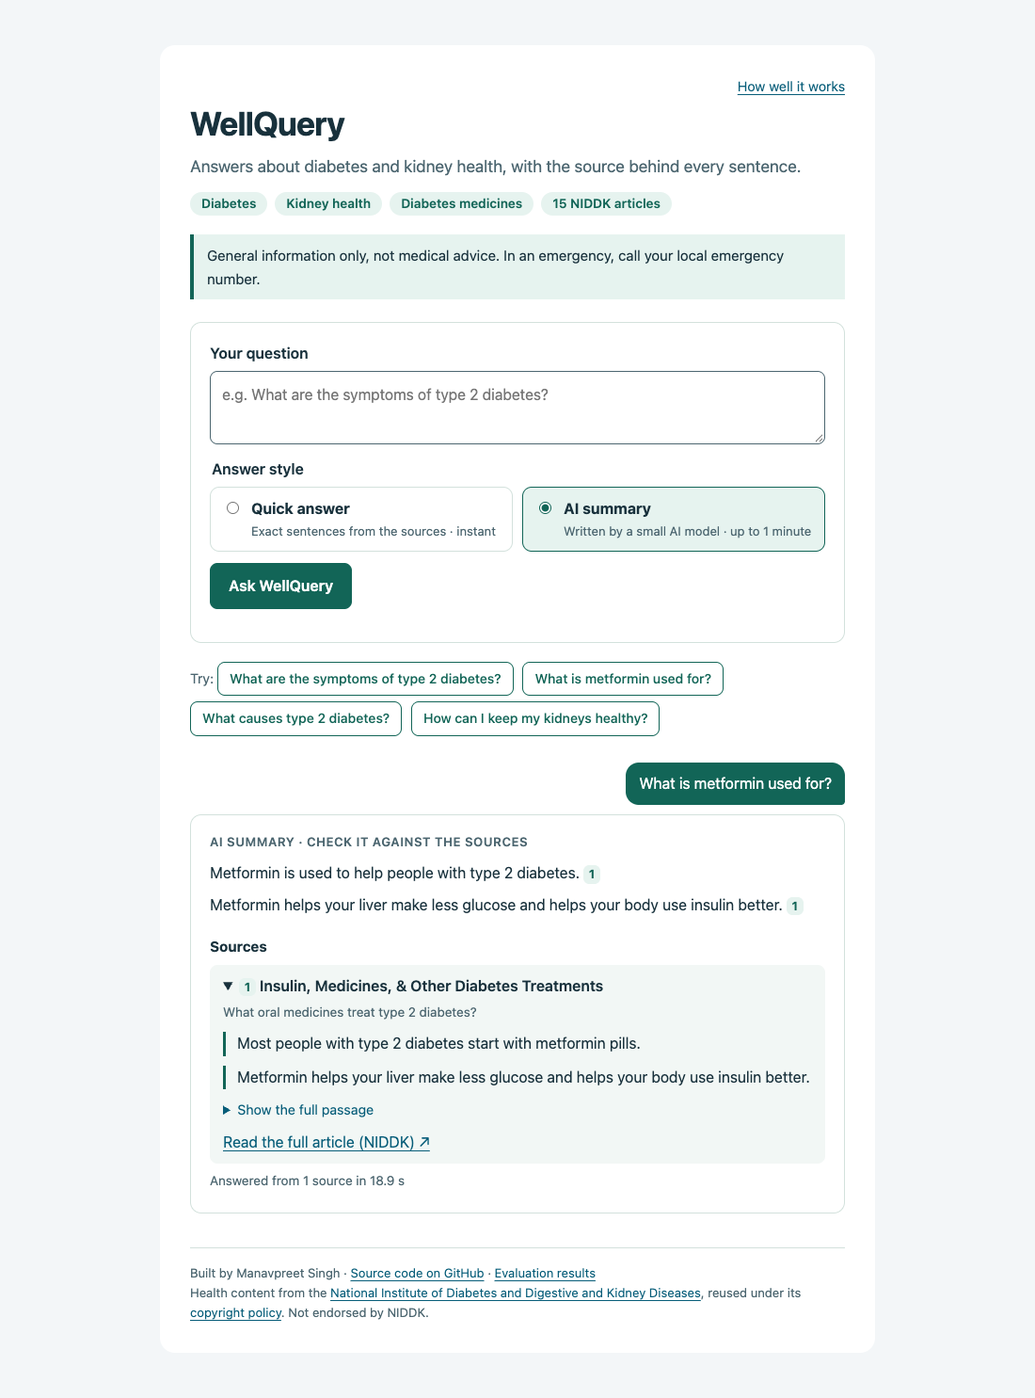
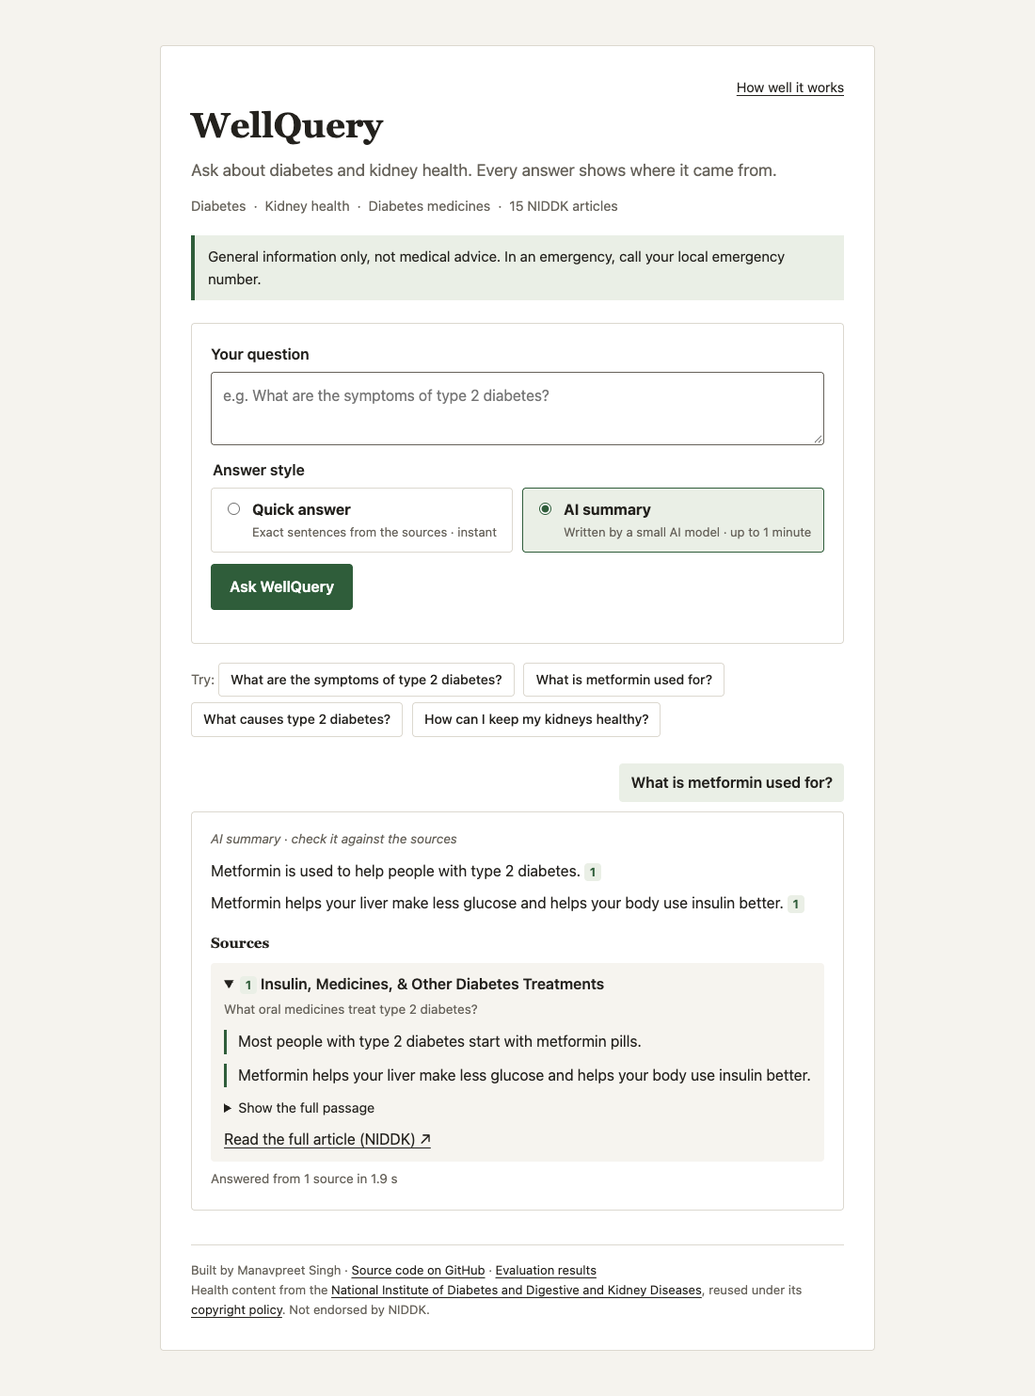
style: simpler, warmer look and plain wording
Move to a deeper green on an off-white page with dark underlined links
(no blue), square corners, serif headings, and plain text instead of
coloured tags. Rewrite the README and Space page in short plain
sentences, and refresh the screenshots.

diff --git a/static/style.css b/static/style.css
@@ -1,64 +1,67 @@
 :root {
-  --bg: #f3f6f8; --card: #ffffff; --text: #18313c; --muted: #4c6670; --line: #d3e1dc;
-  --accent: #126557; --on-accent: #ffffff; --accent-soft: #e6f3ef; --link: #075d79; --quote: #f2f7f5;
-  --urgent: #9b1c1c; --urgent-soft: #fdecec; --caution: #8a5300; --caution-soft: #fdf3e2;
+  --bg: #f5f3ee; --card: #ffffff; --text: #23211d; --muted: #66625a; --line: #dcd8cf;
+  --accent: #2f5d3a; --on-accent: #ffffff; --accent-soft: #eaefe6; --link: #23211d; --quote: #f6f4ef;
+  --urgent: #9b2b1f; --urgent-soft: #f8e4df; --caution: #7d5310; --caution-soft: #f6ecd8;
+  --heading: Georgia, 'Times New Roman', serif;
 }
 @media (prefers-color-scheme: dark) {
   :root {
-    --bg: #0f1a1e; --card: #16252b; --text: #e3edf0; --muted: #a3b8bf; --line: #2c4149;
-    --accent: #3fb59f; --on-accent: #0f1a1e; --accent-soft: #173a35; --link: #7cc8e6; --quote: #1c3036;
-    --urgent: #ff9b9b; --urgent-soft: #3a1d1f; --caution: #f2c071; --caution-soft: #3a2e17;
+    --bg: #1a1916; --card: #22211d; --text: #ece8df; --muted: #a8a294; --line: #3a3832;
+    --accent: #8fbf8a; --on-accent: #1a1916; --accent-soft: #2b3528; --link: #ece8df; --quote: #2a2925;
+    --urgent: #f0a08f; --urgent-soft: #45251f; --caution: #e6c07a; --caution-soft: #3d3220;
   }
 }
 * { box-sizing: border-box; }
 body { margin: 0; padding: 24px 16px; background: var(--bg); color: var(--text); font: 16px/1.6 system-ui, sans-serif; }
-main { max-width: 760px; margin: 24px auto; padding: 32px; border-radius: 16px; background: var(--card); }
+main { max-width: 760px; margin: 24px auto; padding: 32px; border: 1px solid var(--line); border-radius: 4px; background: var(--card); }
+h1, h2, h3 { font-family: var(--heading); font-weight: 600; }
 a { color: var(--link); text-underline-offset: 3px; }
-:focus-visible { outline: 3px solid #b35b00; outline-offset: 3px; }
-button { margin-top: 12px; border: 0; border-radius: 8px; padding: 12px 20px; background: var(--accent); color: var(--on-accent); font: inherit; font-weight: 600; cursor: pointer; }
+:focus-visible { outline: 2px solid var(--accent); outline-offset: 3px; }
+button { margin-top: 12px; border: 0; border-radius: 4px; padding: 12px 20px; background: var(--accent); color: var(--on-accent); font: inherit; font-weight: 600; cursor: pointer; }
 button:disabled { opacity: 0.6; cursor: wait; }
 label { display: block; font-weight: 600; }
-textarea { display: block; width: 100%; margin-top: 6px; padding: 12px; font: inherit; color: var(--text); background: var(--card); border: 1px solid var(--muted); border-radius: 8px; resize: vertical; }
+textarea { display: block; width: 100%; margin-top: 6px; padding: 12px; font: inherit; color: var(--text); background: var(--card); border: 1px solid var(--muted); border-radius: 4px; resize: vertical; }
 select { width: 100%; padding: 10px; margin: 8px 0; font: inherit; }
 
 /* Chat page */
 .hero nav { text-align: right; font-size: .9rem; }
-.hero h1 { margin: 0; font-size: 2.2rem; letter-spacing: -0.02em; }
+.hero h1 { margin: 0; font-size: 2.3rem; }
 .tagline { margin: 4px 0 12px; font-size: 1.1rem; color: var(--muted); }
-.coverage { display: flex; flex-wrap: wrap; gap: 8px; margin: 0 0 20px; padding: 0; list-style: none; }
-.coverage li { padding: 2px 12px; border-radius: 999px; background: var(--accent-soft); color: var(--accent); font-size: .85rem; font-weight: 600; }
+.coverage { display: flex; flex-wrap: wrap; gap: 0; margin: 0 0 20px; padding: 0; list-style: none; color: var(--muted); font-size: .9rem; }
+.coverage li + li::before { content: '·'; padding: 0 8px; }
 .notice { margin: 0 0 24px; border-left: 4px solid var(--accent); padding: 10px 14px; background: var(--accent-soft); font-size: .95rem; }
 #mode, #status { font-size: .9rem; }
-.ask { padding: 20px; border: 1px solid var(--line); border-radius: 12px; }
+.ask { padding: 20px; border: 1px solid var(--line); border-radius: 4px; }
 .styles { display: grid; grid-template-columns: 1fr 1fr; gap: 10px; margin: 14px 0 0; padding: 0; border: 0; }
 .styles legend { margin-bottom: 6px; font-weight: 600; }
-.style-option { display: flex; gap: 10px; align-items: flex-start; padding: 10px 12px; border: 1px solid var(--line); border-radius: 10px; font-weight: 400; cursor: pointer; }
+.style-option { display: flex; gap: 10px; align-items: flex-start; padding: 10px 12px; border: 1px solid var(--line); border-radius: 4px; font-weight: 400; cursor: pointer; }
 .style-option:has(input:checked) { border-color: var(--accent); background: var(--accent-soft); }
 .style-option input { margin-top: 5px; accent-color: var(--accent); }
 .style-option small { display: block; color: var(--muted); font-size: .82rem; }
 #examples { margin: 14px 0 0; color: var(--muted); font-size: .9rem; }
 #examples .example { margin: 6px 6px 0 0; padding: 6px 12px; border: 1px solid var(--accent); background: transparent; color: var(--accent); font-size: .88rem; font-weight: 500; }
 #examples .example:hover { background: var(--accent-soft); }
+#examples .example { color: var(--text); border-color: var(--line); }
 .turn { margin: 28px 0; }
-.question { margin: 0 0 10px auto; width: fit-content; max-width: 85%; padding: 10px 14px; border-radius: 14px 14px 4px 14px; background: var(--accent); color: var(--on-accent); overflow-wrap: anywhere; }
-.answer { padding: 18px 20px; border: 1px solid var(--line); border-radius: 12px; overflow-wrap: anywhere; }
+.question { margin: 0 0 10px auto; width: fit-content; max-width: 85%; padding: 8px 12px; border-radius: 4px; background: var(--accent-soft); color: var(--text); font-weight: 600; overflow-wrap: anywhere; }
+.answer { padding: 18px 20px; border: 1px solid var(--line); border-radius: 4px; overflow-wrap: anywhere; }
 .answer.loading { color: var(--muted); }
 .answer.loading p::before { content: ""; display: inline-block; width: .8em; height: .8em; margin-right: 10px; border: 2px solid var(--accent); border-right-color: transparent; border-radius: 50%; animation: spin 0.8s linear infinite; }
 @keyframes spin { to { transform: rotate(360deg); } }
 @media (prefers-reduced-motion: reduce) { .answer.loading p::before { animation: none; } }
-.answer-label { margin: 0 0 10px; color: var(--muted); font-size: .82rem; font-weight: 600; text-transform: uppercase; letter-spacing: .04em; }
+.answer-label { margin: 0 0 10px; color: var(--muted); font-size: .85rem; font-style: italic; }
 .claim p { margin: 0 0 8px; }
 .claim ul { margin: 0 0 12px; padding-left: 22px; }
 .claim li { margin: 2px 0; }
-.cite { display: inline-block; min-width: 1.4em; padding: 0 5px; border-radius: 6px; background: var(--accent-soft); color: var(--accent); font-size: .8rem; font-weight: 700; text-align: center; text-decoration: none; line-height: 1.5; }
+.cite { display: inline-block; min-width: 1.4em; padding: 0 5px; border-radius: 4px; background: var(--accent-soft); color: var(--accent); font-size: .8rem; font-weight: 700; text-align: center; text-decoration: none; line-height: 1.5; }
 .answer h3 { margin: 18px 0 8px; font-size: .95rem; }
-details.source { margin: 8px 0; padding: 10px 14px; background: var(--quote); border-radius: 8px; }
+details.source { margin: 8px 0; padding: 10px 14px; background: var(--quote); border-radius: 4px; }
 details.source > summary { cursor: pointer; font-weight: 600; }
 blockquote { margin: 10px 0; padding-left: 12px; border-left: 3px solid var(--accent); }
 details.passage { margin: 6px 0 10px; font-size: .9rem; }
 details.passage summary { cursor: pointer; color: var(--link); }
 .source-meta { margin: 4px 0; color: var(--muted); font-size: .85rem; }
-.refusal { padding: 12px 14px; border-radius: 8px; background: var(--accent-soft); }
+.refusal { padding: 12px 14px; border-radius: 4px; background: var(--accent-soft); }
 .refusal p { margin: 4px 0 0; }
 .refusal.urgent { background: var(--urgent-soft); color: var(--urgent); }
 .refusal.caution { background: var(--caution-soft); color: var(--caution); }

diff --git a/templates/evaluation.html b/templates/evaluation.html
@@ -5,7 +5,7 @@
 <p class="notice">Question verification and exact quotations do not establish answer correctness or clinical safety.</p>
 {% if skipped %}<p role="status">{{ skipped }} invalid summary file(s) were skipped.</p>{% endif %}
 {% if not runs %}<h2>No evaluation runs yet</h2><p>Run <code>python -m evaluation.run --include-drafts</code> from your configured project environment. Draft results will be labeled as unverified.</p>
-{% else %}<form method="get"><label for="run">Evaluation run</label><select id="run" name="run">{% for item in runs %}<option value="{{ item.id }}" {% if item.id == selected.id %}selected{% endif %}>{{ item.id }} — {{ 'Draft' if item.draft else 'Reviewed questions' }}</option>{% endfor %}</select><button type="submit">View run</button></form>
+{% else %}<form method="get"><label for="run">Evaluation run</label><select id="run" name="run">{% for item in runs %}<option value="{{ item.id }}" {% if item.id == selected.id %}selected{% endif %}>{{ item.id }} ({{ 'draft' if item.draft else 'reviewed questions' }})</option>{% endfor %}</select><button type="submit">View run</button></form>
 <h2>{{ 'Draft development results' if selected.draft else 'Human-verified question set' }}</h2>
 <p><strong>{{ selected.verified_count }} / {{ selected.question_count }}</strong> questions verified. Answer support still requires separate human review.</p>
 <p class="source-meta">Run timestamp (UTC): {{ selected.created_at }}</p>

diff --git a/templates/index.html b/templates/index.html
@@ -7,11 +7,11 @@
 <header class="hero">
   <nav><a href="/evaluation">How well it works</a></nav>
   <h1>WellQuery</h1>
-  <p class="tagline">Answers about diabetes and kidney health, with the source behind every sentence.</p>
+  <p class="tagline">Ask about diabetes and kidney health. Every answer shows where it came from.</p>
   <ul class="coverage" aria-label="What WellQuery covers"><li>Diabetes</li><li>Kidney health</li><li>Diabetes medicines</li><li>15 NIDDK articles</li></ul>
 </header>
 <p class="notice">General information only, not medical advice. In an emergency, call your local emergency number.</p>
-{% if mode != 'local' %}<p id="mode">Mode: {{ mode }}.{% if mode == 'demo' %} Scripted demo — try “What is WellQuery?”. No health information or AI generation is active.{% else %} Requires configured Databricks endpoints and a local model.{% endif %}</p>{% endif %}
+{% if mode != 'local' %}<p id="mode">Mode: {{ mode }}.{% if mode == 'demo' %} Scripted demo. Try “What is WellQuery?”. No health information or AI generation is active.{% else %} Requires configured Databricks endpoints and a local model.{% endif %}</p>{% endif %}
 <form id="question-form" class="ask">
   <label for="question">Your question</label>
   <textarea id="question" maxlength="1000" required rows="2" placeholder="e.g. What are the symptoms of type 2 diabetes?"></textarea>

diff --git a/README.md b/README.md
@@ -1,101 +1,64 @@
 # WellQuery
 
-A third-year university project that explores general health information through document search, cited source excerpts, and inspectable evidence. Built by Manavpreet Singh on his earlier MediBot project.
+WellQuery answers general questions about diabetes, kidney health and diabetes medicines. It only uses 15 articles from the U.S. National Institute of Diabetes and Digestive and Kidney Diseases (NIDDK), and every answer shows the exact passage it came from, with a link to the original article.
 
-**Current status:** the local application works with source excerpts and live-tested Ollama synthesis. The corpus contains 15 diabetes/kidney-health articles and 199 chunks. All 92 evaluation questions remain unverified drafts. The original/challenge/supplementary sets match their expected answer/refusal categories, but this does not establish answer correctness. See the [final report](docs/REPORT.md), [results](docs/results/), and [completion scope](docs/STATUS.md).
+It is a university project and is not medical advice.
 
-<p align="center"><img src="docs/images/quick-answer.png" alt="WellQuery answering 'What are the symptoms of type 2 diabetes?' with a bulleted list and its NIDDK sources" width="640"></p>
-
-| Emergency questions are refused | Works on phones |
-|---|---|
-| <img src="docs/images/emergency.png" alt="An emergency question gets a red 'This may be an emergency' notice" width="400"> | <img src="docs/images/phone.png" alt="WellQuery on a phone-sized screen" width="200"> |
-
-## Run with Docker
-
-The [Dockerfile](Dockerfile) packages the app, search model, corpus, and Qwen2.5 1.5B via Ollama for CPU-only hosts:
-
-```sh
-make docker && make docker-run   # http://127.0.0.1:7860
-```
-
-`make deploy SPACE=<hf-username>/wellquery` publishes it as a free [Hugging Face Docker Space](https://huggingface.co/docs/hub/spaces-sdks-docker) after `hf auth login`. AI answers take up to a minute on free CPU hardware; source excerpts are near-instant.
-
-## Run the local demo
-
-Requires Python 3.12, [uv](https://docs.astral.sh/uv/), and `make`. Run from the repository root:
-
-```sh
-make setup       # install pinned demo + test dependencies into .venv
-make ingest      # download catalogued articles, observing robots.txt
-make index       # explicitly download the pinned MiniLM model and embed documents
-make smoke       # check the store, index, local model, and cited-excerpt flow
-make evaluate    # generate clearly labeled DRAFT evaluation results
-make local       # start the local excerpt backend on 127.0.0.1:8000
-```
-
-Open [the chat](http://127.0.0.1:8000), [evaluation dashboard](http://127.0.0.1:8000/evaluation), or [API documentation](http://127.0.0.1:8000/docs). Try “What are the symptoms of type 2 diabetes?” and click a citation to inspect the source. `make local` selects the local backend without changing your `.env`.
-
-Initial setup needs internet access for dependencies, articles, and model weights. The default local excerpt path uses no paid API and sends no questions to a hosted inference service. Generated databases, model files, reviews, and run results stay out of Git. Fresh checkouts must generate their own results. The pinned dependency snapshot was tested on macOS Apple Silicon with Python 3.12; other platforms remain unverified. It is a version snapshot, not a security audit or a hash-locked distribution.
+<p align="center"><img src="docs/images/quick-answer.png" alt="WellQuery answering 'What are the symptoms of type 2 diabetes?' with a list of symptoms and its NIDDK sources" width="640"></p>
 
 ## What it does
 
-- Extracts curated HTML/text sources into section-aware chunks with publisher, URL, permission details, and content hashes.
-- Compares BM25 keyword search, MiniLM vector search, hybrid reciprocal rank fusion, and optional rule-based category routing.
-- Returns verbatim source excerpts by default, with numbered citations and expandable support passages.
-- Offers optional local Ollama synthesis with citation-ID and exact-support-quote checks.
-- Applies prototype phrase rules for emergency, personal-advice, and injection requests before local retrieval.
-- Compares retrieval configurations and exports answers for separate human review.
-- Displays evaluation runs with explicit draft/verified-question counts and limitations.
+- Finds the parts of the articles that match your question, using keyword search and meaning-based search together.
+- **Quick answer** (default): shows the most relevant sentences exactly as written in the articles, with numbered links to each source.
+- **AI summary** (optional): a small language model (Qwen2.5 1.5B, run locally through Ollama) writes a short answer. Each sentence must point to a real sentence from the sources, or the answer is hidden.
+- Refuses emergencies (it tells you to call emergency services) and personal medical questions such as "how much insulin should I take".
+- Says so when the articles don't cover a question, instead of guessing.
+- Has a page showing how well the search did on 92 test questions.
 
-![Draft evaluation dashboard](docs/images/evaluation.png)
+## Running it
 
-## Commands
+**With Docker:**
 
-| Command | Purpose |
-|---|---|
-| `make check` | Offline tests and whitespace validation |
-| `make doctor` | Check dependency and data/index prerequisites without loading the model |
-| `make smoke` | Exercise local excerpts and citations with the real cached embedding model |
-| `make local` | Run the local evidence-backed demo |
-| `make run` | Run the backend selected by `BACKEND_MODE` (defaults to scripted `demo`) |
-| `make evaluate` | Run the unverified development set; results are not headline accuracy |
-| `.venv/bin/python -m evaluation.run` | Run only human-verified questions; fails if none exist |
+```sh
+make docker && make docker-run
+```
 
-After changing source documents, rerun ingestion and index creation. Vector search detects stale content. For explicit refresh use `.venv/bin/python -m app.ingest --download --refresh`.
+Then open http://127.0.0.1:7860. The first build downloads the language model (about 1 GB). Quick answers take a few seconds at most; summaries can take up to a minute on a normal CPU.
 
-## Optional model synthesis and original MediBot mode
+**Without Docker** (needs Python 3.12, [uv](https://docs.astral.sh/uv/) and `make`):
 
-To enable synthesis, run Ollama locally with a model you have separately installed and set `OLLAMA_MODEL` in `.env`. Start `make local`, select **AI synthesis**, and inspect its support quotes. This mode calls the local [Ollama chat API](https://docs.ollama.com/api/chat). Without the model/service it reports unavailability; it does not silently substitute generated-looking excerpts. Run `make model-status` to inspect installed-model metadata without generating text, then `make model-smoke` for a fixed-question live synthesis probe. Both return a nonzero exit code when unavailable or unsuccessful. Metadata readiness alone does not demonstrate valid generation. The metadata check uses the [Ollama model listing API](https://docs.ollama.com/api/tags). Live generation and browser evidence inspection passed with Qwen2.5 1.5B on October 7, 2026. This is a mechanical integration check, not a medical-quality review.
+```sh
+make setup     # install dependencies
+make ingest    # download the 15 articles
+make index     # build the search index
+make local     # start the app at http://127.0.0.1:8000
+```
 
-The original `BACKEND_MODE=databricks` flow is retained for comparison and requires your serving endpoints and the original local generation dependencies in `requirements-llm.txt`. Those legacy pins should be tested in a **separate environment**, not mixed into the tested demo snapshot. Databricks inference remains unverified; the new local safeguards are not applied to the legacy flow. See `.env.example` and [provenance](ATTRIBUTION.md).
+For summaries, also run `make model-serve` in a second terminal, then `make model-pull` once, and set `OLLAMA_MODEL=qwen2.5:1.5b` in `.env`.
 
-## Evidence, evaluation, and limits
+## Built with
 
-Citation validation checks that source IDs exist and quotes match retrieved passages. It does **not** prove that a synthesized claim follows from that quote. Retrieval relevance, answer support, and clinical safety are distinct.
+Python, FastAPI, SQLite, BM25 keyword search, MiniLM sentence embeddings, Ollama with Qwen2.5 1.5B, plain HTML/CSS/JavaScript, pytest, Docker and GitHub Actions.
 
-The 15-article collection covers diabetes, kidney health, and two medication-information pages; it is not a comprehensive health or drug reference. Local routing is a simple rule baseline; the trained MediBot classifier remains remote. Draft results exposed worse retrieval with routing on one split, so no routing improvement is claimed. Phrase safeguards can miss paraphrases or misread negation, and vector scores are not medical confidence. The app is intended for a local classroom demo, not public clinical use. Avoid entering personal health information; there is no comprehensive PII filter.
+## Tests
 
-- [Evaluation definitions and human review workflow](evaluation/README.md)
-- [Source permissions and ingestion limitations](data/README.md)
-- [Architecture and design tradeoffs](docs/ARCHITECTURE.md)
-- [Two-minute demo and troubleshooting](docs/DEMO.md)
-- [Completion checklist](docs/STATUS.md)
-- [Original scope](PROJECT_SCOPE.md) and [commit history notes](docs/PROGRESS.md)
+```sh
+make check
+```
 
-The final submission still needs human question/answer review, live synthesis validation if synthesis is presented as a working feature.
+This runs the automated tests and a whitespace check. `make evaluate` re-runs the main set of 60 test questions.
 
+## Limits
 
-### Run local synthesis
+- It only knows what is in the 15 articles. It is not a full health or drug reference.
+- The 92 test questions are drafts that no person has checked yet, so the results page is a development check, not a measure of medical accuracy.
+- The safety rules work on wording and can miss questions phrased in unexpected ways.
+- Please don't enter personal health information.
 
-Install [Ollama from its official source](https://docs.ollama.com/macos). On this development machine, a verified runtime is already in ignored `data/models/ollama-runtime/`; `make model-serve` detects it. Other installations use `ollama` from PATH.
+## Sources and history
 
-1. In a terminal, run `make model-serve` (leave it running).
-2. In another terminal, run `make model-pull` once to download [Qwen2.5 1.5B](https://ollama.com/library/qwen2.5:1.5b), approximately 986 MB.
-3. Set `OLLAMA_MODEL=qwen2.5:1.5b` in your local `.env` (already set on this machine).
-4. Run `make model-smoke`, then `make local`, and choose **AI synthesis**.
+The health content comes from NIDDK and is reused under its [copyright policy](https://www.niddk.nih.gov/copyright). WellQuery is not endorsed by NIDDK. Source details are in [data/README.md](data/README.md).
 
-`make model-serve` stores models under ignored `data/models/ollama`. If another Ollama server already owns port 11434, use that server or stop it before starting this one; do not run two servers on the same port. Stop local servers with Ctrl+C after your demo. Model downloads and runtime binaries are not committed.
+WellQuery grew out of my earlier project, MediBot, which used Databricks and Llama. That setup is still in the code as an option (`BACKEND_MODE=databricks`) but is off by default. See [ATTRIBUTION.md](ATTRIBUTION.md).
 
-For the controlled MediBot-prompt comparison, use `make compare`. This compares prompt handling with the same local model, not the original remote deployment. Read [the comparison methodology](docs/REPORT.md#controlled-medibot-prompt-comparison) before interpreting the outputs.
-
-![Live local synthesis with source evidence](docs/images/live-synthesis.png)
+More detail: [design notes](docs/ARCHITECTURE.md), [evaluation](evaluation/README.md), [report](docs/REPORT.md).

diff --git a/deploy/huggingface/README.md b/deploy/huggingface/README.md
@@ -1,22 +1,22 @@
 ---
 title: WellQuery
-emoji: 🩺
+emoji: 📗
 colorFrom: green
-colorTo: blue
+colorTo: yellow
 sdk: docker
 app_port: 7860
-short_description: Health questions answered from cited NIDDK sources
+short_description: Diabetes and kidney health answers with sources
 ---
 
 # WellQuery
 
-Ask general questions about diabetes, kidney health, and diabetes medicines. Every answer shows the source passages it came from.
+Ask general questions about diabetes, kidney health and diabetes medicines. Answers come only from 15 NIDDK articles, and each one shows the passage it came from.
 
-- **Source excerpts** (default): exact sentences from 15 NIDDK articles, found by hybrid keyword + semantic search. Fast.
-- **AI synthesis**: Qwen2.5 1.5B rewrites the evidence into short claims, each linked to a source sentence. Takes up to a minute on this free CPU hardware.
+- **Quick answer** shows the matching sentences exactly as written. It's fast.
+- **AI summary** uses a small language model to write a short answer from the same sentences. On this free server it can take up to a minute.
 
-Emergency and personal-dosing questions are refused before search.
+Emergency and personal dosing questions are refused.
 
-Student prototype: general information only, not medical advice. Health content from the [National Institute of Diabetes and Digestive and Kidney Diseases](https://www.niddk.nih.gov/) (NIDDK), reused under its [copyright policy](https://www.niddk.nih.gov/copyright); not endorsed by NIDDK.
+This is a university project, not medical advice. Health content is from the [National Institute of Diabetes and Digestive and Kidney Diseases](https://www.niddk.nih.gov/), reused under its [copyright policy](https://www.niddk.nih.gov/copyright). It is not endorsed by NIDDK.
 
-Source code, evaluation, and report: [github.com/manavpreet1809/WellQuery](https://github.com/manavpreet1809/WellQuery)
+Code: [github.com/manavpreet1809/WellQuery](https://github.com/manavpreet1809/WellQuery)
